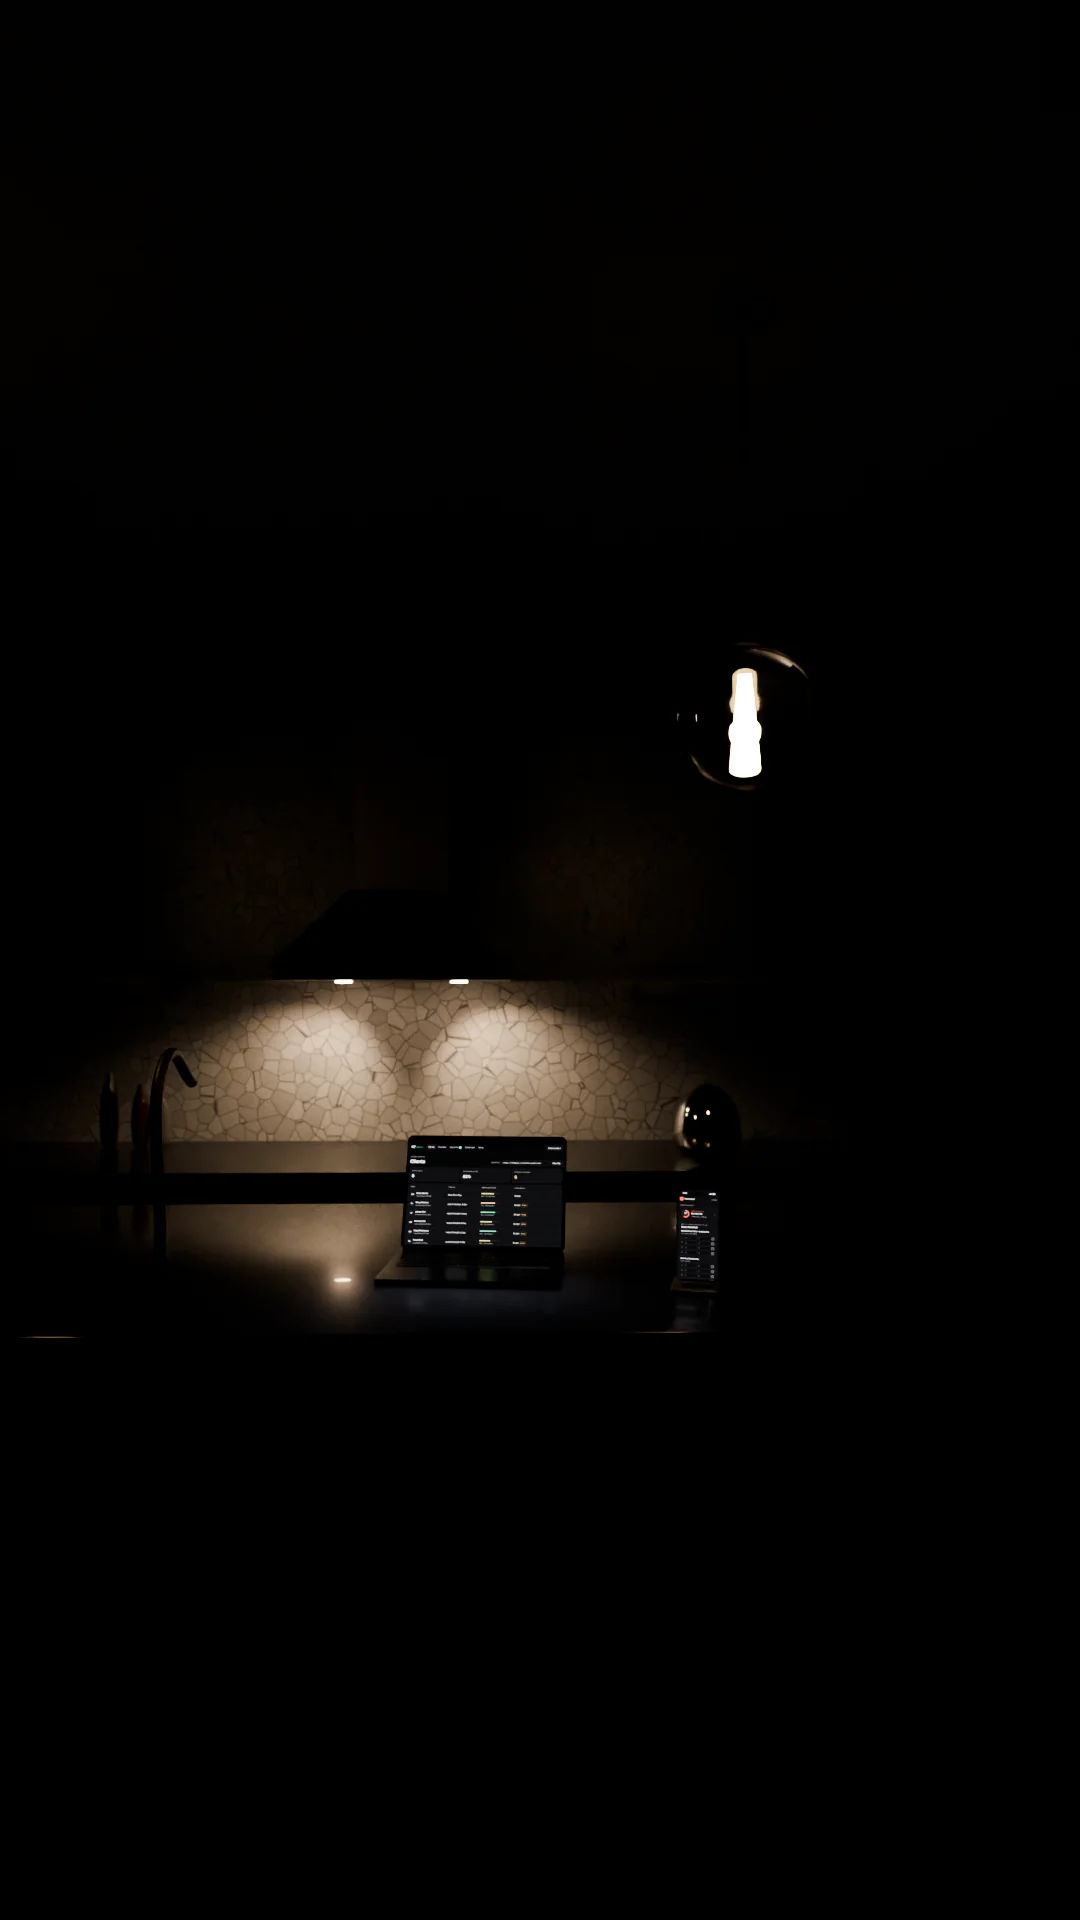
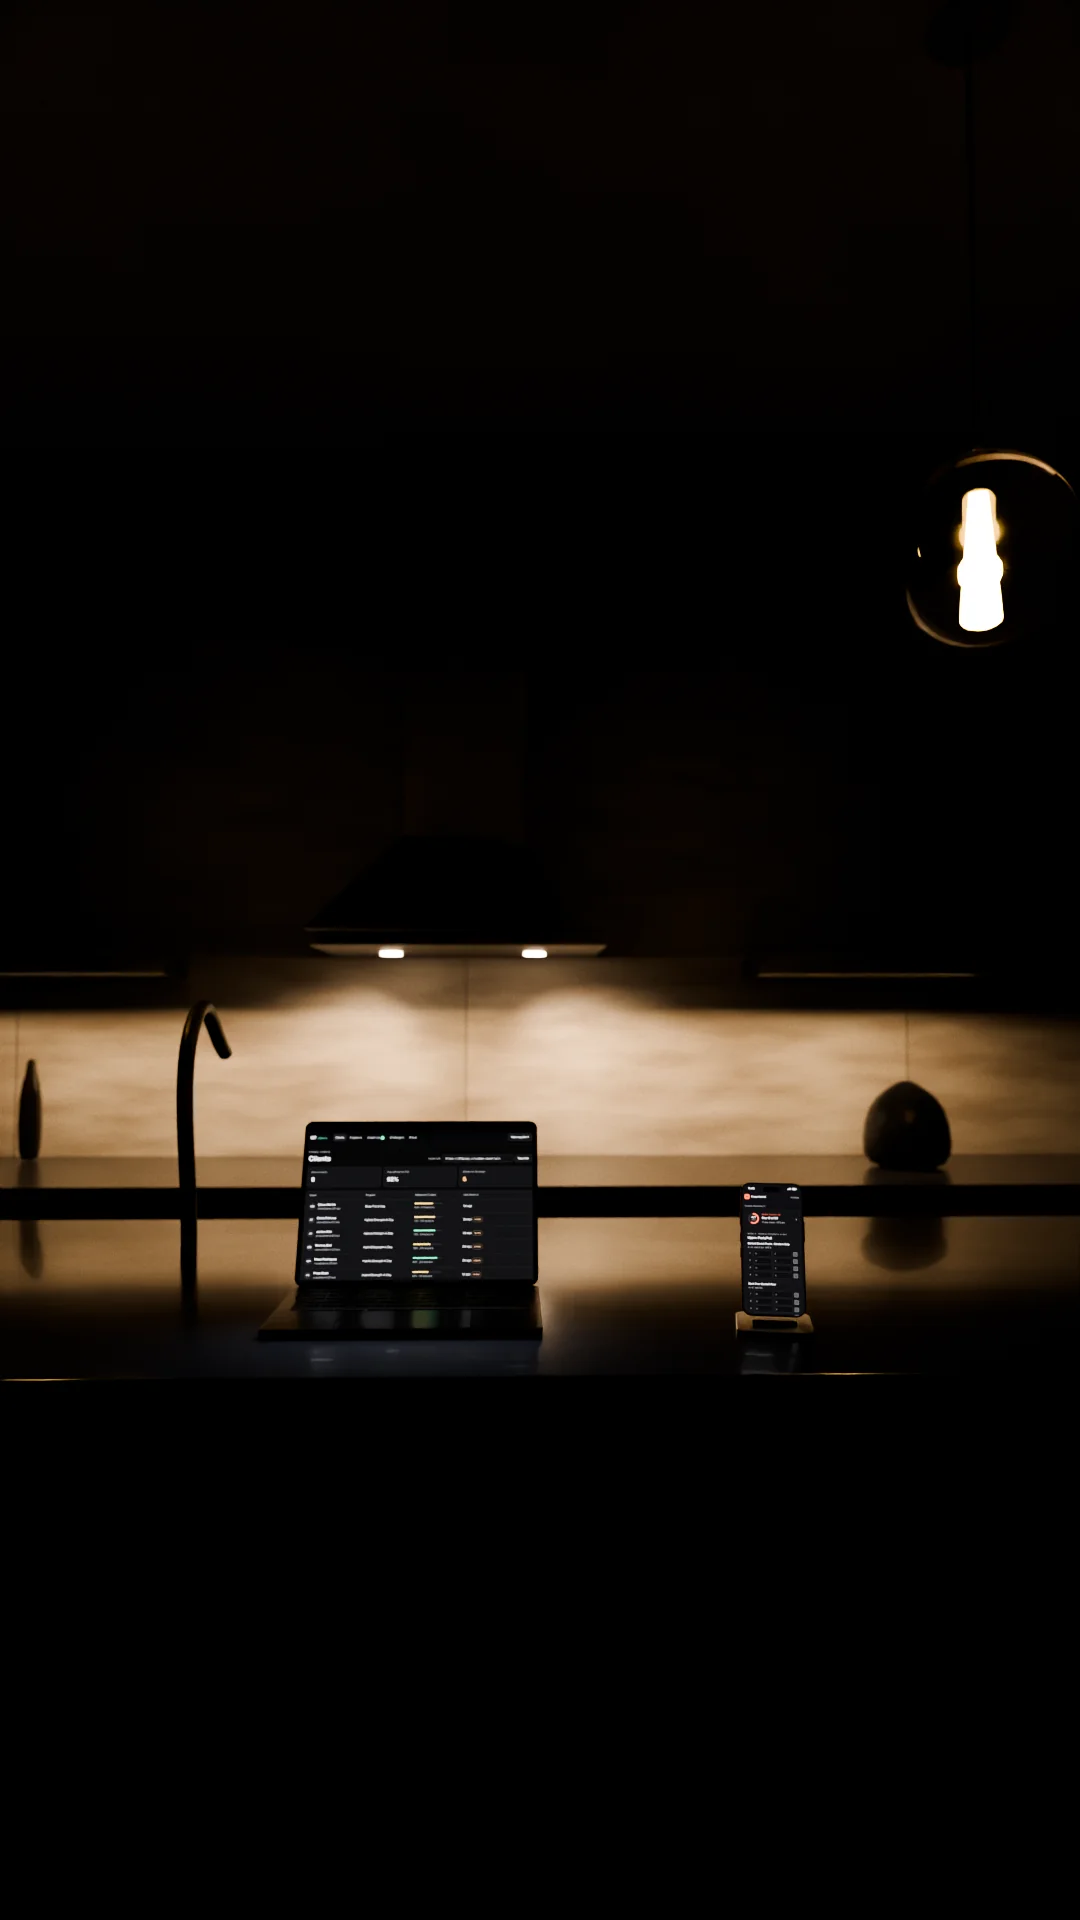
Coach home hero: reference layout (centered nav, one-colour headline, price beside Start free) and a warmer kitchen with the laptop facing the visitor
Claude-Session: https://claude.ai/code/session_01DVS861AoZnrc7WLLu9kCTF

diff --git a/public/coaches/index.html b/public/coaches/index.html
@@ -307,7 +307,7 @@ h1.h1,.h1{font-size:clamp(30px,6vw,52px);line-height:1.04;letter-spacing:-.04em;
 .loft-scene{position:absolute;left:0;top:0;transform-origin:0 0;will-change:transform}
 .loft-scene img{display:block;width:100%;height:100%;user-select:none;-webkit-user-drag:none}
 .loft-scr{position:absolute;left:0;top:0;max-width:none;max-height:none;transform-origin:0 0;opacity:0;will-change:transform,opacity;pointer-events:none;backface-visibility:hidden}
-.loft-pin::before{content:"";position:absolute;inset:0 0 auto 0;height:74%;z-index:1;pointer-events:none;background:radial-gradient(70% 80% at 50% 30%,rgba(6,6,7,.7),rgba(6,6,7,.35) 60%,transparent 85%),linear-gradient(180deg,rgba(6,6,7,.9) 0,rgba(6,6,7,.55) 45%,rgba(6,6,7,0) 100%);opacity:var(--scrim,1)}
+.loft-pin::before{content:"";position:absolute;inset:0 0 auto 0;height:74%;z-index:1;pointer-events:none;background:radial-gradient(46% 55% at 50% 30%,rgba(6,6,7,.55),rgba(6,6,7,.2) 70%,transparent 100%);opacity:var(--scrim,1)}
 .loft-copy{position:absolute;inset:0 0 auto 0;z-index:2;padding:calc(60px + clamp(20px,5vh,56px)) 16px 0;text-align:center;will-change:opacity,transform}
 .loft-copy h1{margin:12px auto 14px;max-width:16ch;font-size:clamp(38px,5.8vw,68px);line-height:1.02;letter-spacing:-.035em;text-wrap:balance}
 .loft-copy h1 span{display:block;color:var(--ink-2)}
@@ -327,6 +327,25 @@ h1.h1,.h1{font-size:clamp(30px,6vw,52px);line-height:1.04;letter-spacing:-.04em;
 @media(max-width:960px){.wins{grid-template-columns:1fr 1fr}}
 @media(max-width:560px){.wins{grid-template-columns:1fr}.loft-copy h1{font-size:clamp(34px,10vw,44px)}.loft-copy .lede{font-size:16px}}
 @media(prefers-reduced-motion:reduce){.loft{height:auto}.loft-pin{position:relative}.loft-hint{display:none}.loft-hint i{animation:none}}
+
+/* Header and hero type, after Eli's reference: centered links, square-ish buttons, one-colour headline. */
+.top .wrap{position:relative}
+.top nav.mid{position:absolute;left:50%;transform:translateX(-50%);margin:0;display:flex;gap:18px}
+.top nav.mid a{color:var(--ink-2);font-size:15px}
+.top nav.mid a:hover,.top nav.end a:hover{color:var(--ink)}
+.top nav.end{margin-left:auto;display:flex;gap:10px;align-items:center}
+.top nav.end a{text-decoration:none;color:var(--ink-2);font-size:15px;padding:8px 10px}
+.top{background:rgba(6,6,7,.55)}
+.btn.sq{border-radius:10px}
+.top nav.end .btn.sq{min-height:40px;padding:0 18px;color:#03140c;font-size:15px}
+.btn.lg{min-height:52px;padding:0 26px;font-size:17px}
+.loft-copy h1{max-width:19ch;color:#f4f4f7;font-weight:600;letter-spacing:-.045em;font-size:clamp(36px,4.6vw,64px);line-height:1.04}
+.loft-copy .lede{color:#c9c9d1;font-size:clamp(17px,1.7vw,21px);max-width:34ch;margin:0 auto 26px}
+.loft-copy .cta-row{display:flex;align-items:center;justify-content:center;gap:18px;flex-wrap:wrap}
+.cta-note{color:#b9b9c2;font-size:15px}
+.loft-hint{font-size:13px;letter-spacing:.02em}
+@media(max-width:760px){.top nav.mid{display:none}}
+@media(max-width:560px){.loft-copy .cta-row{flex-direction:column;gap:10px}.loft-copy .cta-row .btn{width:100%;max-width:340px}.cta-note{font-size:14px}}
 </style>
 <style id="siteCss">
 /* The coach's site (kit page and the downloaded file). One markup, three looks (data-look), the coach's color as the
@@ -480,7 +499,8 @@ h1.h1,.h1{font-size:clamp(30px,6vw,52px);line-height:1.04;letter-spacing:-.04em;
 <body>
 <header class="top"><div class="wrap">
   <a class="mark" href="/">127</a>
-  <nav><a class="hide-s" href="#kit">The kit</a><a class="hide-s" href="#pricing">Pricing</a><a href="/login?next=/coaches/%23kit">Sign in</a><a class="btn" href="/coaches/join?next=%2Fcoaches%2F%23build">Start free</a></nav>
+  <nav class="mid" aria-label="Main"><a href="#kit">The kit</a><a href="#pricing">Pricing</a><a href="/circle">Circle</a></nav>
+  <nav class="end"><a class="hide-s" href="/login?next=/coaches/%23kit">Sign in</a><a class="btn sq" href="/coaches/join?next=%2Fcoaches%2F%23build">Start free</a></nav>
 </div></header>
 
 <main>
@@ -495,12 +515,11 @@ h1.h1,.h1{font-size:clamp(30px,6vw,52px);line-height:1.04;letter-spacing:-.04em;
     </div>
     <img class="loft-scr" id="loftScr" alt="" aria-hidden="true" decoding="async">
     <div class="loft-copy" id="loftCopy">
-      <div class="eyebrow">For online coaches</div>
-      <h1 id="heroTitle">Your own coaching platform. <span>No app store. No developers.</span></h1>
-      <p class="lede">Your website, challenge, client app and coach dashboard, built from one form.</p>
+      <h1 id="heroTitle">Your own coaching platform, built from one form.</h1>
+      <p class="lede">Your website, client app, dashboard and launch kit. No app store. No developers.</p>
       <div class="cta-row">
-        <a class="btn" href="/coaches/join?next=%2Fcoaches%2F%23build">Start free <svg viewBox="0 0 24 24" fill="none" stroke="currentColor" stroke-width="2.2" stroke-linecap="round" stroke-linejoin="round" aria-hidden="true"><path d="M5 12h14M13 6l6 6-6 6"/></svg></a>
-        <a class="btn ghost" href="#kit">See what's included</a>
+        <a class="btn sq lg" href="/coaches/join?next=%2Fcoaches%2F%23build">Start free</a>
+        <span class="cta-note">Free to build. $149/mo when you're ready for clients.</span>
       </div>
     </div>
     <div class="loft-hint" aria-hidden="true"><i></i>Scroll</div>
@@ -533,8 +552,8 @@ h1.h1,.h1{font-size:clamp(30px,6vw,52px);line-height:1.04;letter-spacing:-.04em;
 (function(){
   // Where each device's screen sits in its render (top-left, top-right, bottom-right, bottom-left, as fractions of the image).
   var SHOTS = {
-    wide: { w: 2400, h: 1350, quad: [[0.5218, 0.70008], [0.61345, 0.70193], [0.61561, 0.81077], [0.52103, 0.80779]], scr: '/img/coach-hero/loft-mac-screen.webp', sw: 2279, sh: 1480, fill: [.94, .86], tag: 'Coach dashboard. Forge Hybrid is a demo coach.' },
-    tall: { w: 1080, h: 1920, quad: [[0.62963, 0.62052], [0.66392, 0.6213], [0.66308, 0.6662], [0.6283, 0.66523]], scr: '/img/coach-hero/loft-phone-screen.webp', sw: 780, sh: 1690, fill: [.8, .84], tag: 'Client app. Forge Hybrid is a demo coach.' }
+    wide: { w: 2400, h: 1350, quad: [[0.44245, 0.6585], [0.55755, 0.6585], [0.55913, 0.79086], [0.44087, 0.79086]], scr: '/img/coach-hero/loft-mac-screen.webp', sw: 2279, sh: 1480, fill: [.94, .86], tag: 'Coach dashboard. Forge Hybrid is a demo coach.' },
+    tall: { w: 1080, h: 1920, quad: [[0.68892, 0.61777], [0.73957, 0.61833], [0.74319, 0.68403], [0.69076, 0.68299]], scr: '/img/coach-hero/loft-phone-screen.webp', sw: 780, sh: 1690, fill: [.8, .84], tag: 'Client app. Forge Hybrid is a demo coach.' }
   };
   var pin = document.getElementById('loftPin'), scene = document.getElementById('loftScene'), scr = document.getElementById('loftScr');
   var copy = document.getElementById('loftCopy'), sec = pin.parentNode;
